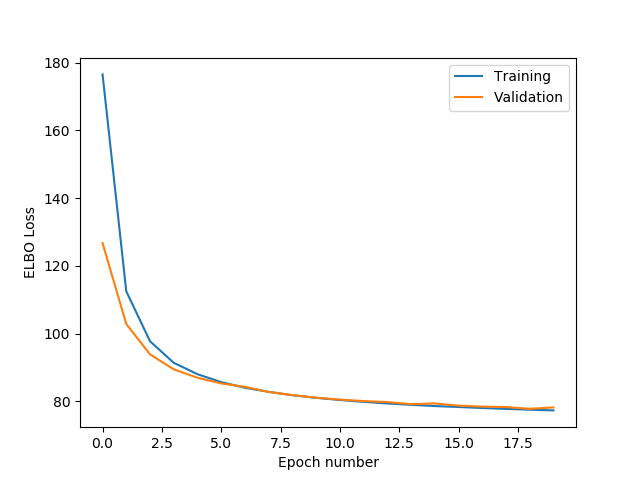
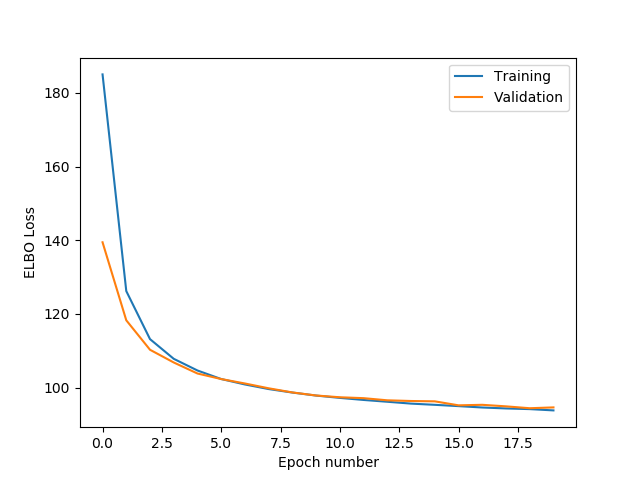
fixed vae reparameterize

diff --git a/HW3/VAE.py b/HW3/VAE.py
@@ -69,20 +69,21 @@ class VAE(nn.Module):
         return log_sigma, mu, z
 
     def reparameterize(self, mu, log_sigma, n_samples=1):
-        sigma = torch.exp(log_sigma) + math.exp(-7)
-        sigmas = sigma.unsqueeze(1).expand(-1, n_samples, -1)
+        std = torch.exp(0.5*log_sigma)
+        std = std.unsqueeze(1).expand(-1, n_samples, -1)
         mus = mu.unsqueeze(1).expand(-1, n_samples, -1)
 
-        e = torch.randn((sigma.shape[0], n_samples, sigma.shape[1])).to(sigma.device)
-        return (mus + e * sigmas).squeeze()
+        e = torch.randn((log_sigma.shape[0], n_samples, log_sigma.shape[1])).to(log_sigma.device)
+        return (mus + e * std).squeeze()
 
     def importance_sampling(self, x, k):
         log_sigma, mu, z = self.sample_latent_from(x, n_samples=k)
-        log_sigma = log_sigma.unsqueeze(1).expand(-1, k, -1)
+        sigma = torch.exp(log_sigma) + math.exp(-7)
+        sigma = sigma.unsqueeze(1).expand(-1, k, -1)
         mu = mu.unsqueeze(1).expand(-1, k, -1)
         x_ = self.decoder(z.view(-1, z.shape[-1])).view(-1, k, *x.shape[-3:])
         P = self.getPx_z(x_, x.unsqueeze(1).expand(-1, k, *x.shape[-3:])) \
-            + self.getPz(z) - self.getQz_x(z, mu, torch.exp(log_sigma))
+            + self.getPz(z) - self.getQz_x(z, mu, sigma)
 
         max, _ = torch.max(P, 1)
         return max + torch.logsumexp(P - max.unsqueeze(1), 1) - np.log(k)
@@ -128,9 +129,9 @@ def train(VAE, train_loader, optimizer, device):
         mean_loss += loss.item()
         total += batchX.shape[0]
 
-        """if (batch_id + 1) % 100 == 0:
+        if (batch_id + 1) % 100 == 0:
             print('Step [{}/{}], Loss: {:.4f}({:.4f})'
-                  .format(batch_id + 1, total_step, loss.item()/batchX.shape[0], mean_loss / total))"""
+                  .format(batch_id + 1, total_step, loss.item()/batchX.shape[0], mean_loss / total))
 
     mean_loss = mean_loss / total
     return mean_loss
@@ -183,6 +184,7 @@ if __name__ == "__main__":
     num_epochs = 20
     trainLosses = []
     validLosses = []
+    imp_sampling_mean = importance_sampling(model, test_loader, device)
     for epoch in range(checkpoint["epoch"] if checkpoint else 0, num_epochs):
         print("-------------- Epoch # " + str(epoch+1) + " --------------")
 
